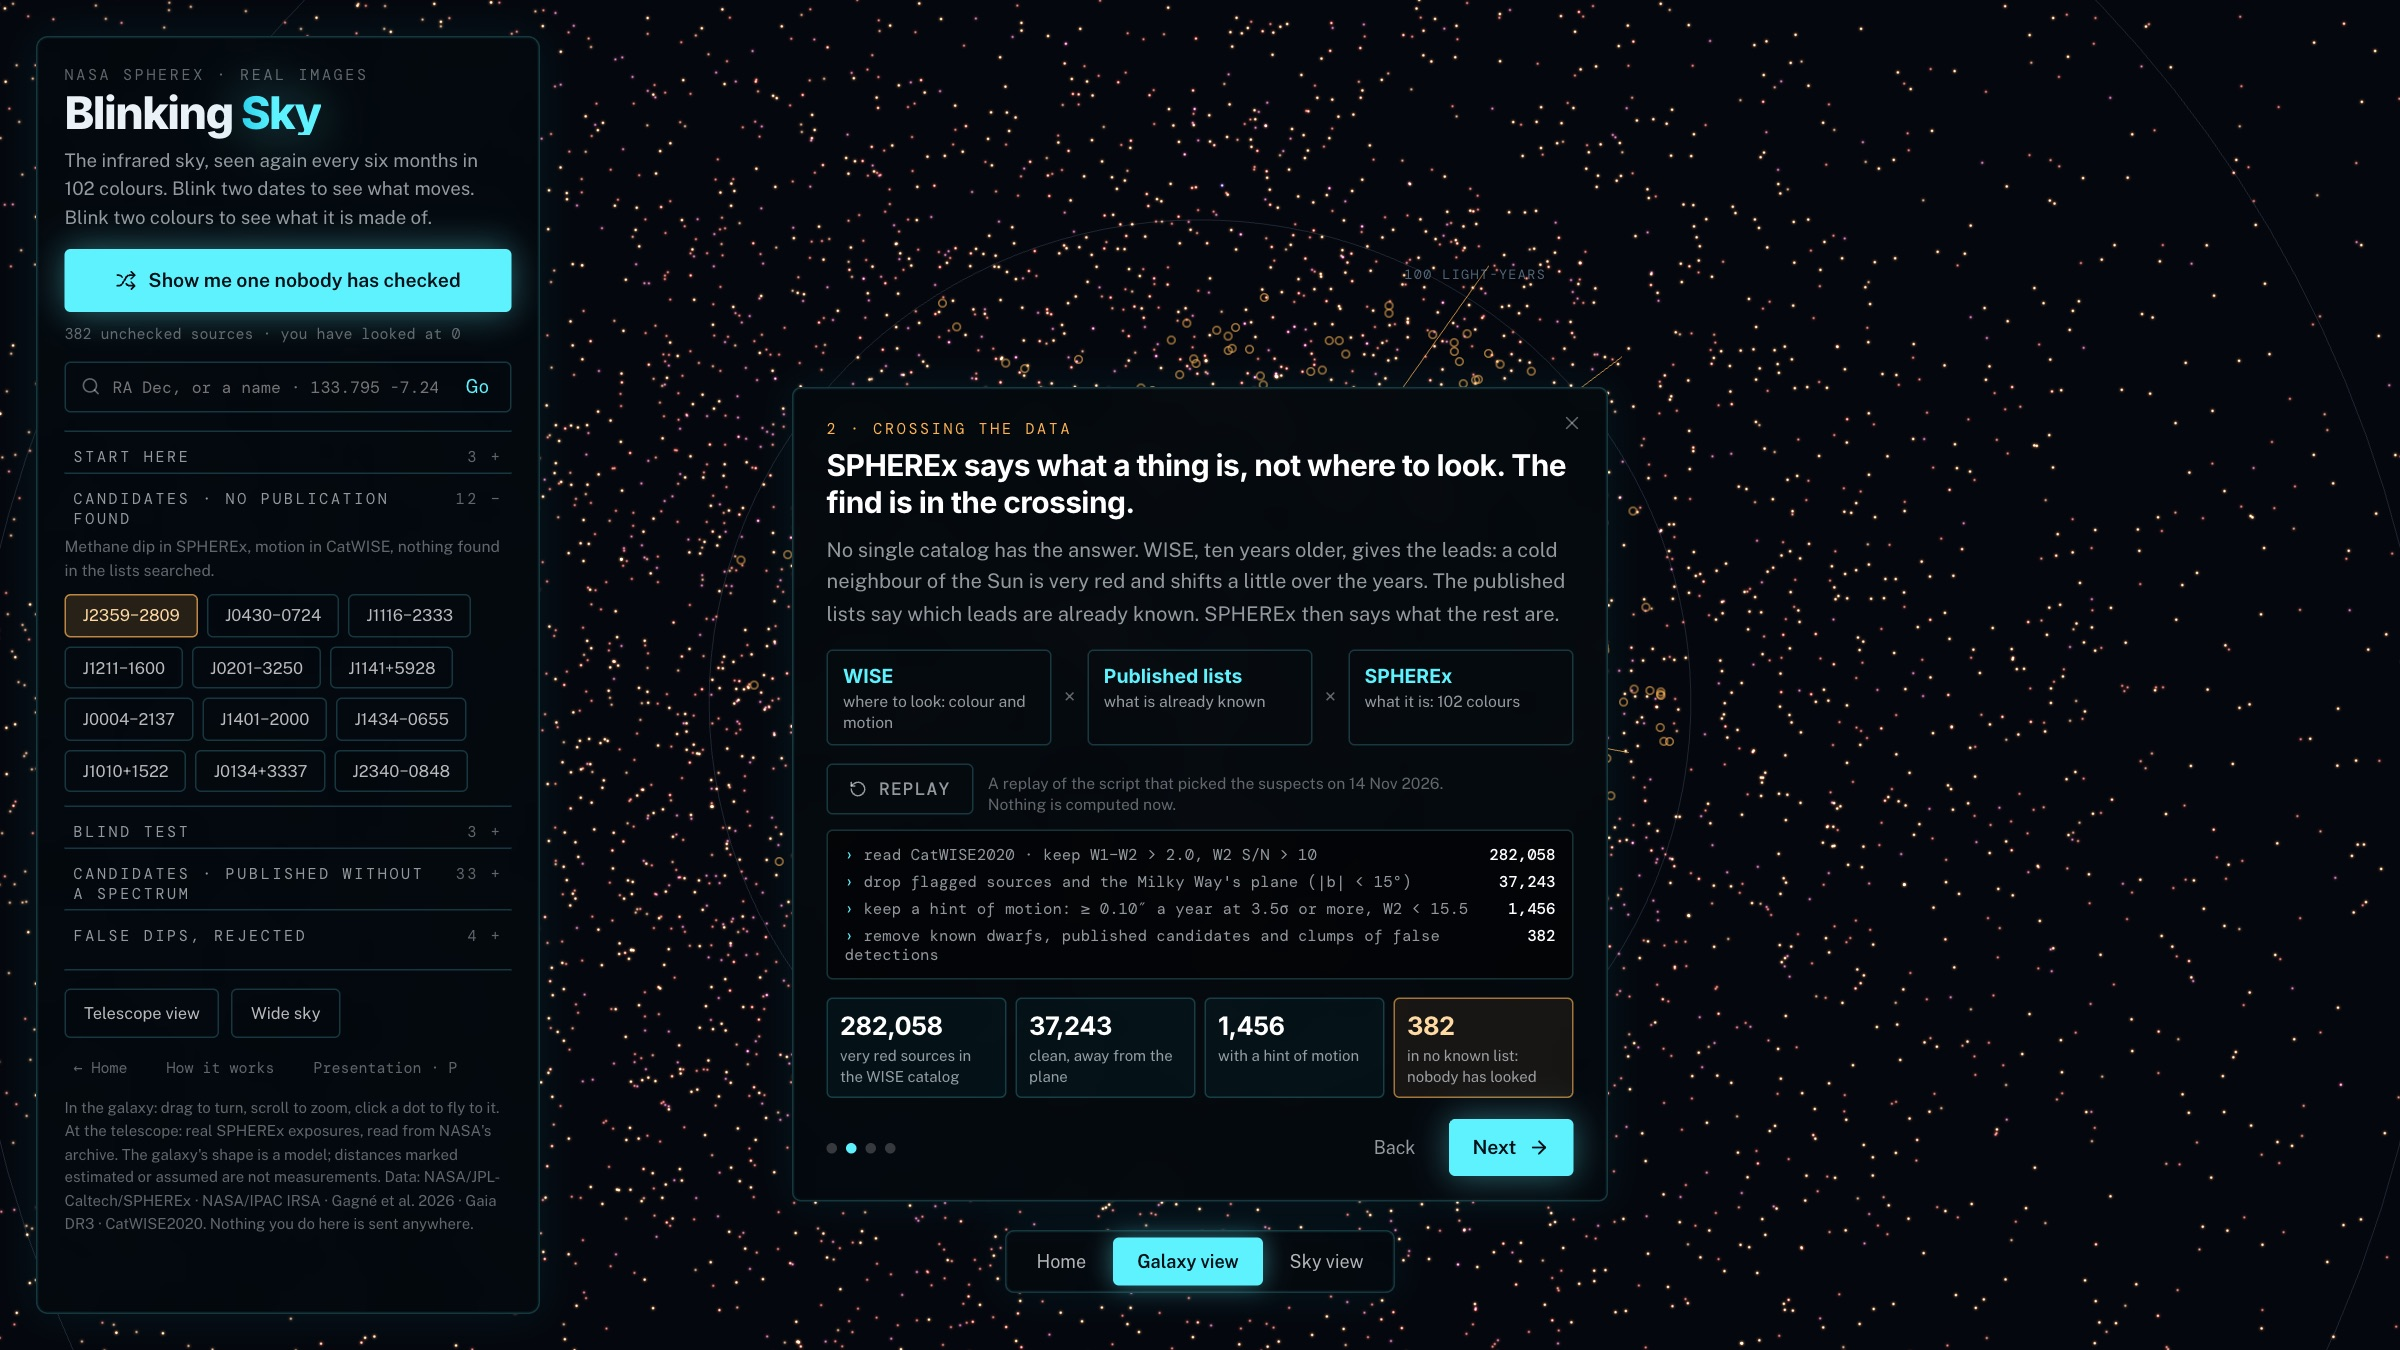
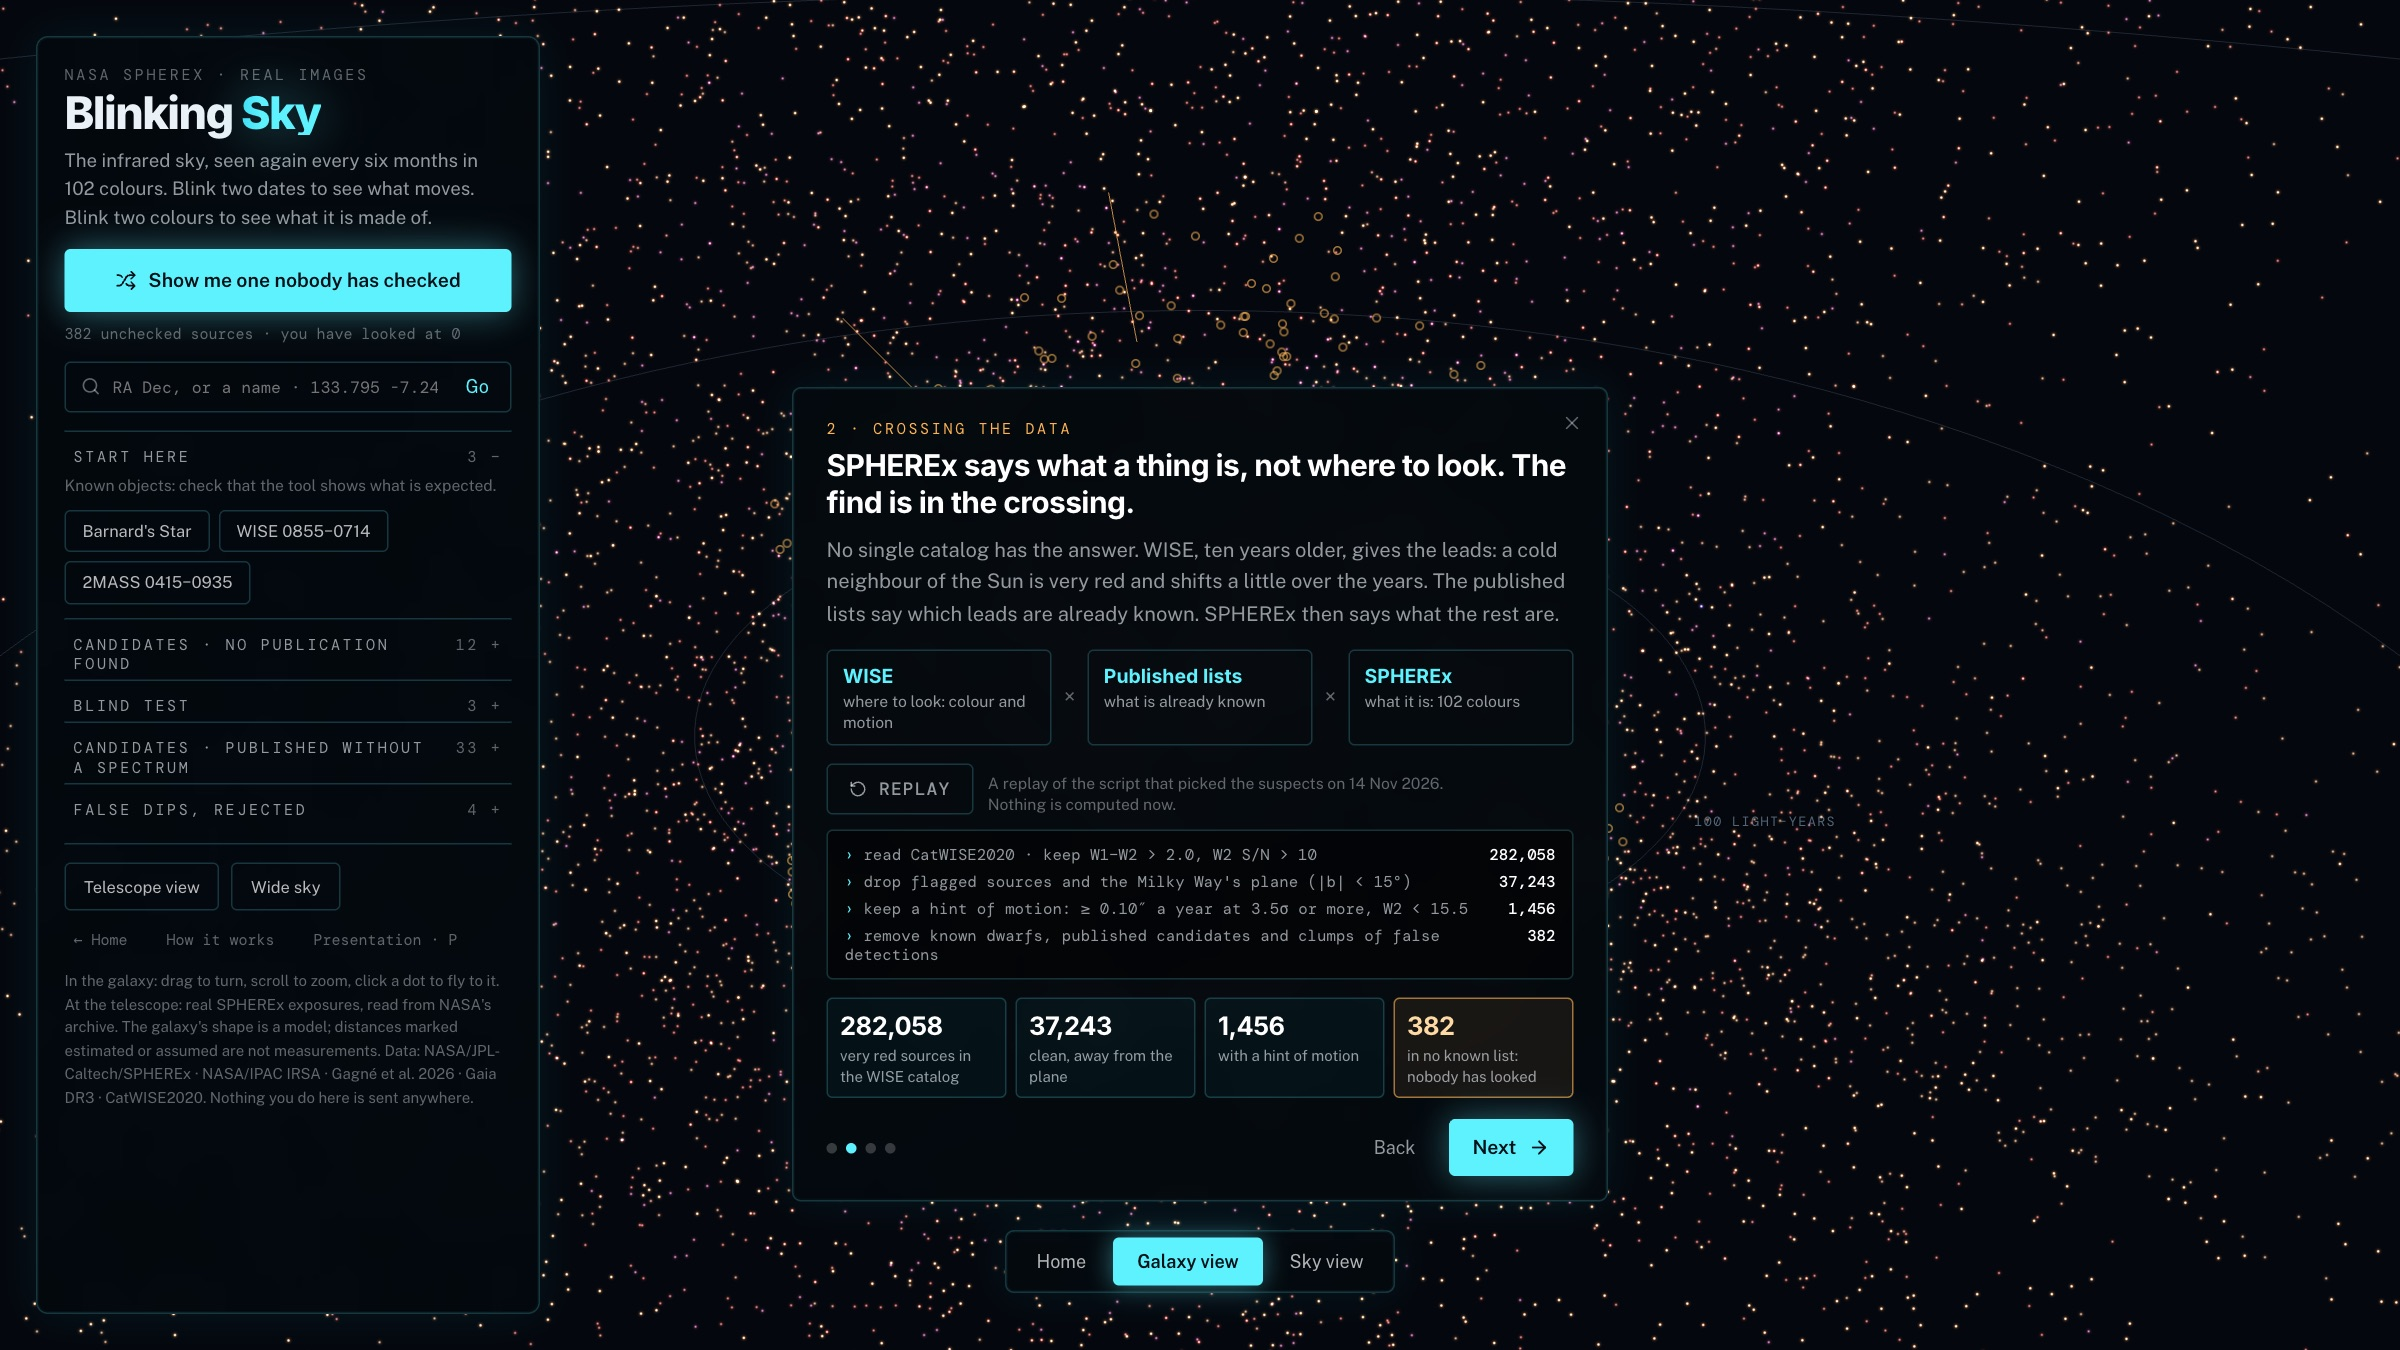
Galaxy drawn as in the H.Atlas landing, in blue
Per-star sizes, a slow twinkle, soft gas and one glow at the core replace the
saturated centre; young arm stars are blue, old stars warm white. The published
dwarfs fade out when the galaxy is seen from outside. Deck captures retaken.

diff --git a/app/src/sky/milkyway.ts b/app/src/sky/milkyway.ts
@@ -43,40 +43,55 @@ function sample(starCount: number, cloudCount: number) {
   return { stars, tint, clouds, size };
 }
 
-const VERT = /* glsl */ `
-  attribute float aTint; uniform float uSize, uPx; varying float vTint; varying float vFade;
+// Rendering as in the H.Atlas landing galaxy (h-suite, components/Galaxy3D.tsx): each star its own size, young arm
+// stars larger, old bulge and disk stars warm white and small, a slow twinkle, soft gas, one glow at the core. Blue here, violet there.
+const STAR_VERT = /* glsl */ `
+  attribute float aTint; attribute float aSeed; uniform float uTime, uPx, uSprite; varying vec3 vC; varying float vA;
   void main() {
     vec4 mv = modelViewMatrix * vec4(position, 1.0);
+    vC = mix(vec3(0.16, 0.52, 1.0), vec3(1.0, 0.93, 0.9), aTint);   // young arm stars blue, old stars warm white
+    vA = (0.5 + 0.2 * sin(uTime * (0.8 + aSeed) + aSeed * 50.0)) * (1.0 - 0.3 * aTint);
+    // The model stands for stars too far to be measured: it fades out close to the camera.
+    vA *= smoothstep(0.5, 3.0, -mv.z);
+    gl_PointSize = clamp((0.07 + 0.09 * (1.0 - aTint) * aSeed) * uSprite * uPx / max(0.01, -mv.z), 1.5, 48.0);
     gl_Position = projectionMatrix * mv;
-    float px = uSize * aTint * uPx / max(0.01, -mv.z);
-    gl_PointSize = clamp(px, 1.4, 56.0);
-    // The model stands for stars too far to be measured: it fades out where the real stars take over.
-    vFade = smoothstep(0.5, 3.0, -mv.z);
-    vTint = aTint;
   }`;
+const DISC = /* glsl */ `float disc() { float d = length(gl_PointCoord - 0.5) * 2.0; return d < 0.35 ? mix(1.0, 0.5, d / 0.35) : max(0.0, mix(0.5, 0.0, (d - 0.35) / 0.65)); }`;
 const STAR_FRAG = /* glsl */ `
-  uniform vec3 uDense, uSparse; uniform float uBright; varying float vTint; varying float vFade;
-  void main() { float r = length(gl_PointCoord - 0.5) * 2.0; float a = smoothstep(1.0, 0.0, r); gl_FragColor = vec4(mix(uDense, uSparse, vTint) * a * a * uBright * vFade, 1.0); }`;
-const STAR_VERT = VERT.replace("uSize * aTint", "uSize");
+  uniform float uBright; varying vec3 vC; varying float vA; ${DISC}
+  void main() { float t = disc() * vA * uBright; gl_FragColor = vec4(vC * t, t); }`;
+const CLOUD_VERT = /* glsl */ `
+  attribute float aTint; uniform float uPx, uSprite; varying float vFade;
+  void main() { vec4 mv = modelViewMatrix * vec4(position, 1.0); vFade = smoothstep(0.5, 3.0, -mv.z); gl_PointSize = clamp(aTint * 2.2 * uSprite * uPx / max(0.01, -mv.z), 1.0, 240.0); gl_Position = projectionMatrix * mv; }`;
 const CLOUD_FRAG = /* glsl */ `
-  uniform vec3 uTint; uniform float uOpacity; varying float vFade;
-  void main() { float r = length(gl_PointCoord - 0.5) * 2.0; float a = smoothstep(1.0, 0.0, r); gl_FragColor = vec4(uTint * a * uOpacity * vFade, 1.0); }`;
+  uniform float uOpacity; varying float vFade; ${DISC}
+  void main() { float t = disc() * uOpacity * vFade; gl_FragColor = vec4(vec3(0.34, 0.56, 1.0) * t, t); }`;
 
 /** Position of the Galactic centre when the Sun is the origin. */
 export const GALACTIC_CENTRE = new THREE.Vector3(MILKY_WAY.r0, -MILKY_WAY.z0, 0);
 
-/** The model as two point clouds, placed so that the Sun is at the origin. `update` takes pixels per unit angle. */
-export function milkyWayDisk(starCount = 300000, cloudCount = 3600, sprite = 1) {
-  const data = sample(starCount, cloudCount);
-  const starUniforms = { uSize: { value: 0.085 * sprite }, uPx: { value: 800 }, uDense: { value: new THREE.Color("#2885ff") }, uSparse: { value: new THREE.Color("#ffa27a") }, uBright: { value: 0.3 } };
-  const cloudUniforms = { uSize: { value: 2.2 * sprite }, uPx: { value: 800 }, uTint: { value: new THREE.Color("#ffd0d6") }, uOpacity: { value: 0.026 } };
+/** The model as two point clouds and a core glow, placed so that the Sun is at the origin. `update` takes device pixels per unit angle. */
+export function milkyWayDisk(starCount = 300000, cloudCount = 2600, sprite = 1) {
+  const data = sample(starCount, cloudCount), density = Math.min(1, 160000 / starCount) * 0.45 + 0.55;
+  const starUniforms = { uTime: { value: 0 }, uPx: { value: 800 }, uSprite: { value: sprite }, uBright: { value: density } };
+  const cloudUniforms = { uPx: { value: 800 }, uSprite: { value: sprite }, uOpacity: { value: 0.045 } };
+  const seed = new Float32Array(starCount); for (let i = 0; i < starCount; i++) seed[i] = ((i * 2654435761) >>> 0) / 4294967296;
   const stars = new THREE.BufferGeometry();
-  stars.setAttribute("position", new THREE.BufferAttribute(data.stars, 3)); stars.setAttribute("aTint", new THREE.BufferAttribute(data.tint, 1));
+  stars.setAttribute("position", new THREE.BufferAttribute(data.stars, 3)); stars.setAttribute("aTint", new THREE.BufferAttribute(data.tint, 1)); stars.setAttribute("aSeed", new THREE.BufferAttribute(seed, 1));
   const starPoints = new THREE.Points(stars, new THREE.ShaderMaterial({ vertexShader: STAR_VERT, fragmentShader: STAR_FRAG, uniforms: starUniforms, blending: THREE.AdditiveBlending, depthWrite: false, depthTest: false, transparent: true }));
   const clouds = new THREE.BufferGeometry();
   clouds.setAttribute("position", new THREE.BufferAttribute(data.clouds, 3)); clouds.setAttribute("aTint", new THREE.BufferAttribute(data.size, 1));
-  const cloudPoints = new THREE.Points(clouds, new THREE.ShaderMaterial({ vertexShader: VERT, fragmentShader: CLOUD_FRAG, uniforms: cloudUniforms, blending: THREE.AdditiveBlending, depthWrite: false, depthTest: false, transparent: true }));
+  const cloudPoints = new THREE.Points(clouds, new THREE.ShaderMaterial({ vertexShader: CLOUD_VERT, fragmentShader: CLOUD_FRAG, uniforms: cloudUniforms, blending: THREE.AdditiveBlending, depthWrite: false, depthTest: false, transparent: true }));
   starPoints.frustumCulled = cloudPoints.frustumCulled = false;
-  const group = new THREE.Group(); group.add(cloudPoints, starPoints); group.position.copy(GALACTIC_CENTRE);
-  return { group, update: (px: number, brightness = 1) => { starUniforms.uPx.value = cloudUniforms.uPx.value = px; starUniforms.uBright.value = 0.3 * brightness; cloudUniforms.uOpacity.value = 0.026 * brightness * brightness; } };
+  // A soft glow at the core.
+  const canvas = document.createElement("canvas"); canvas.width = canvas.height = 64;
+  const ctx = canvas.getContext("2d")!, g = ctx.createRadialGradient(32, 32, 0, 32, 32, 32);
+  g.addColorStop(0, "rgba(255,255,255,1)"); g.addColorStop(0.35, "rgba(255,255,255,.5)"); g.addColorStop(1, "rgba(255,255,255,0)"); ctx.fillStyle = g; ctx.fillRect(0, 0, 64, 64);
+  const core = new THREE.Sprite(new THREE.SpriteMaterial({ map: new THREE.CanvasTexture(canvas), color: 0xe6f0ff, transparent: true, opacity: 0.55, blending: THREE.AdditiveBlending, depthWrite: false, depthTest: false }));
+  core.scale.set(7, 7, 1);
+  const group = new THREE.Group(); group.add(cloudPoints, starPoints, core); group.position.copy(GALACTIC_CENTRE);
+  return { group, update: (px: number, brightness = 1, dt = 0) => {
+    starUniforms.uPx.value = cloudUniforms.uPx.value = px; starUniforms.uTime.value += dt;
+    starUniforms.uBright.value = density * brightness; cloudUniforms.uOpacity.value = 0.045 * brightness; core.material.opacity = 0.55 * Math.min(1, brightness);
+  } };
 }

diff --git a/app/src/sky/galaxy.ts b/app/src/sky/galaxy.ts
@@ -35,14 +35,14 @@ export type DwarfMeta = { count: number; total: number; measured: number; estima
 
 // The published SPHEREx dwarfs: a dot each, coloured by the type SPHEREx gave it (M orange, L red, T magenta, Y violet).
 const STAR_VERT = /* glsl */ `
-  attribute float aType; attribute float aBasis; uniform float uScale, uSize; varying vec3 vTint; varying float vAlpha;
+  attribute float aType; attribute float aBasis; uniform float uScale, uSize, uFar; varying vec3 vTint; varying float vAlpha;
   void main() {
     vec4 mv = modelViewMatrix * vec4(position, 1.0);
     gl_Position = projectionMatrix * mv;
     gl_PointSize = uSize * uScale;
     vec3 m = vec3(1.0, 0.66, 0.40), l = vec3(1.0, 0.36, 0.28), t = vec3(0.92, 0.36, 0.66), y = vec3(0.62, 0.45, 1.0);
     vTint = aType < 10.0 ? m : aType < 20.0 ? mix(m, l, clamp((aType - 9.0) / 3.0, 0.0, 1.0)) : aType < 30.0 ? mix(l, t, clamp((aType - 19.0) / 3.0, 0.0, 1.0)) : y;
-    vAlpha = mix(1.0, 0.6, aBasis);   // estimated distances are drawn fainter than measured ones
+    vAlpha = mix(1.0, 0.6, aBasis) * uFar;   // estimated distances are drawn fainter than measured ones
   }`;
 const STAR_FRAG = /* glsl */ `
   varying vec3 vTint; varying float vAlpha;
@@ -67,7 +67,7 @@ export class Galaxy {
   readonly camera = new THREE.PerspectiveCamera(42, 1, 1e-6, 2000);
   readonly overlay = document.createElement("div");
   private disk = milkyWayDisk();
-  private starUniforms = { uScale: { value: 1 }, uSize: { value: 3 } };
+  private starUniforms = { uScale: { value: 1 }, uSize: { value: 3 }, uFar: { value: 1 } };
   private dwarfs: { position: Float32Array; meta: DwarfMeta; sky: Float32Array; distance: Float32Array; basis: Uint8Array; group: Uint8Array } | null = null;
   private framed = false;
   private galUniforms = { uScale: { value: 1 }, uAlpha: { value: 0 } };
@@ -246,8 +246,10 @@ export class Galaxy {
     };
     // Dots stay a readable size at every zoom; the model dims once the camera is inside the disk, among the dwarfs.
     this.starUniforms.uScale.value = pixelRatio; this.starUniforms.uSize.value = fromSun > 2 ? 2.4 : fromSun > 0.3 ? 4 : 6.5;
+    // Seen from outside the galaxy, the 15,739 dwarfs would pile up on one pixel: they fade out with distance.
+    this.starUniforms.uFar.value = 1 - 0.985 * THREE.MathUtils.smoothstep(fromSun, 1.5, 12);
     // From far outside, our galaxy shrinks to a few pixels: its light is turned down so it does not burn out.
-    this.disk.update(height / (2 * Math.tan(this.camera.fov * DEG / 2)), THREE.MathUtils.lerp(0.12, 1, THREE.MathUtils.smoothstep(fromSun, 0.4, 4)) * Math.min(1, Math.pow(260 / Math.max(260, fromSun), 1.7) + 0.004));
+    this.disk.update(pixelRatio * height / (2 * Math.tan(this.camera.fov * DEG / 2)), THREE.MathUtils.lerp(0.12, 1, THREE.MathUtils.smoothstep(fromSun, 0.4, 4)) * Math.min(1, Math.pow(260 / Math.max(260, fromSun), 1.7) + 0.004), dt);
     this.galUniforms.uScale.value = pixelRatio; this.galUniforms.uAlpha.value = THREE.MathUtils.smoothstep(fromSun, 60, 600);
     (this.here.lastChild as HTMLElement).textContent = fromSun > 150 ? "Milky Way · you are here" : "You are here";
     place(new THREE.Vector3(0, 0, 0), this.here, fromSun > 0.25);

diff --git a/app/src/sky/portrait.ts b/app/src/sky/portrait.ts
@@ -65,7 +65,7 @@ export class Portrait {
   private glowUniforms = { uColour: { value: new THREE.Color(0.6, 0.3, 0.5) }, uPower: { value: 0.5 }, uFade: { value: 1 } };
   private target: PortraitLook | null = null;
   /** A spiral galaxy, for objects that are galaxies: the same schematic model as the map, small and tilted. */
-  private spiral = milkyWayDisk(26000, 400, 1.0);
+  private spiral = milkyWayDisk(26000, 300, 1.0);
   private tilt = new THREE.Group();
   private bright = 1;
   active = false;
@@ -95,7 +95,7 @@ export class Portrait {
     this.uniforms.uTime.value += dt;
     this.bright += (this.target.brightness - this.bright) * Math.min(1, dt * 5);
     this.uniforms.uBright.value = this.bright; this.uniforms.uFade.value = this.glowUniforms.uFade.value = Math.max(0, Math.min(1, fade));
-    if (this.target.kind === "galaxy") { this.spiral.group.rotation.y -= dt * 0.12; this.spiral.update(size * renderer.getPixelRatio() / (2 * Math.tan(15 * Math.PI / 180)), 0.42 * Math.max(0, Math.min(1, fade))); }
+    if (this.target.kind === "galaxy") { this.spiral.group.rotation.y -= dt * 0.12; this.spiral.update(size * renderer.getPixelRatio() / (2 * Math.tan(15 * Math.PI / 180)), 1.0 * Math.max(0, Math.min(1, fade)), dt); }
     renderer.clearDepth();
     renderer.setViewport(x, y, size, size); renderer.setScissor(x, y, size, size); renderer.setScissorTest(true);
     renderer.render(this.scene, this.camera);
